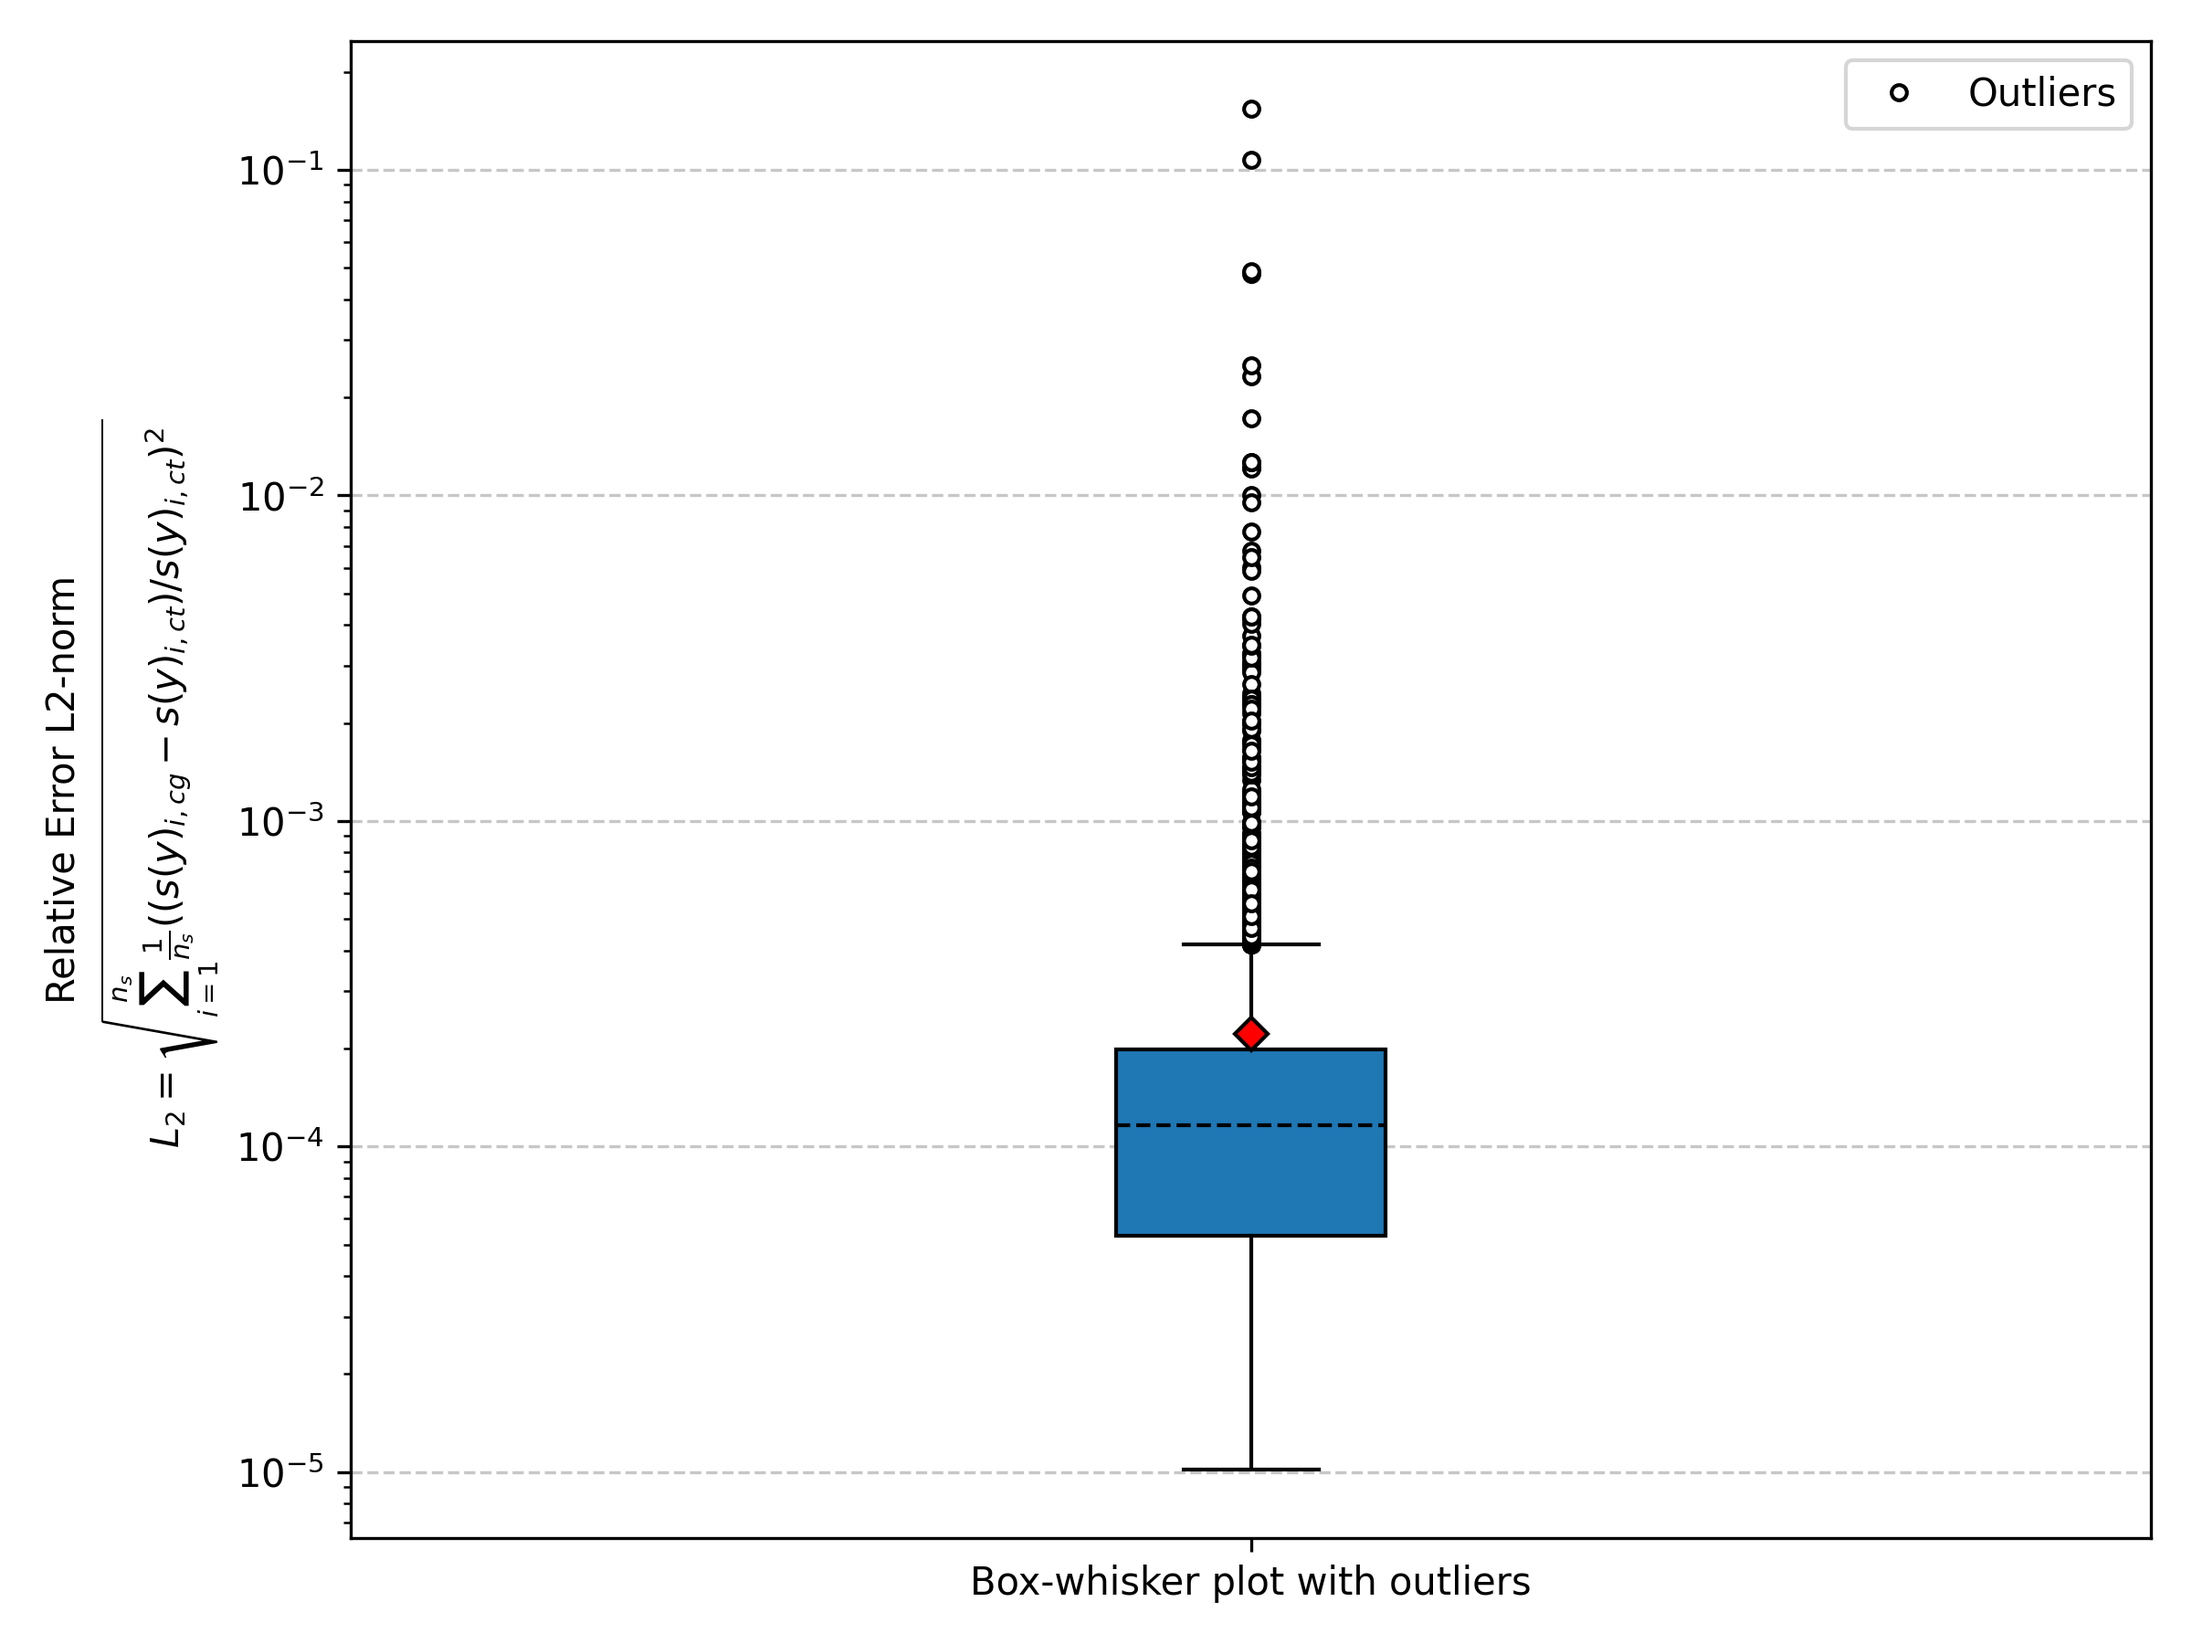
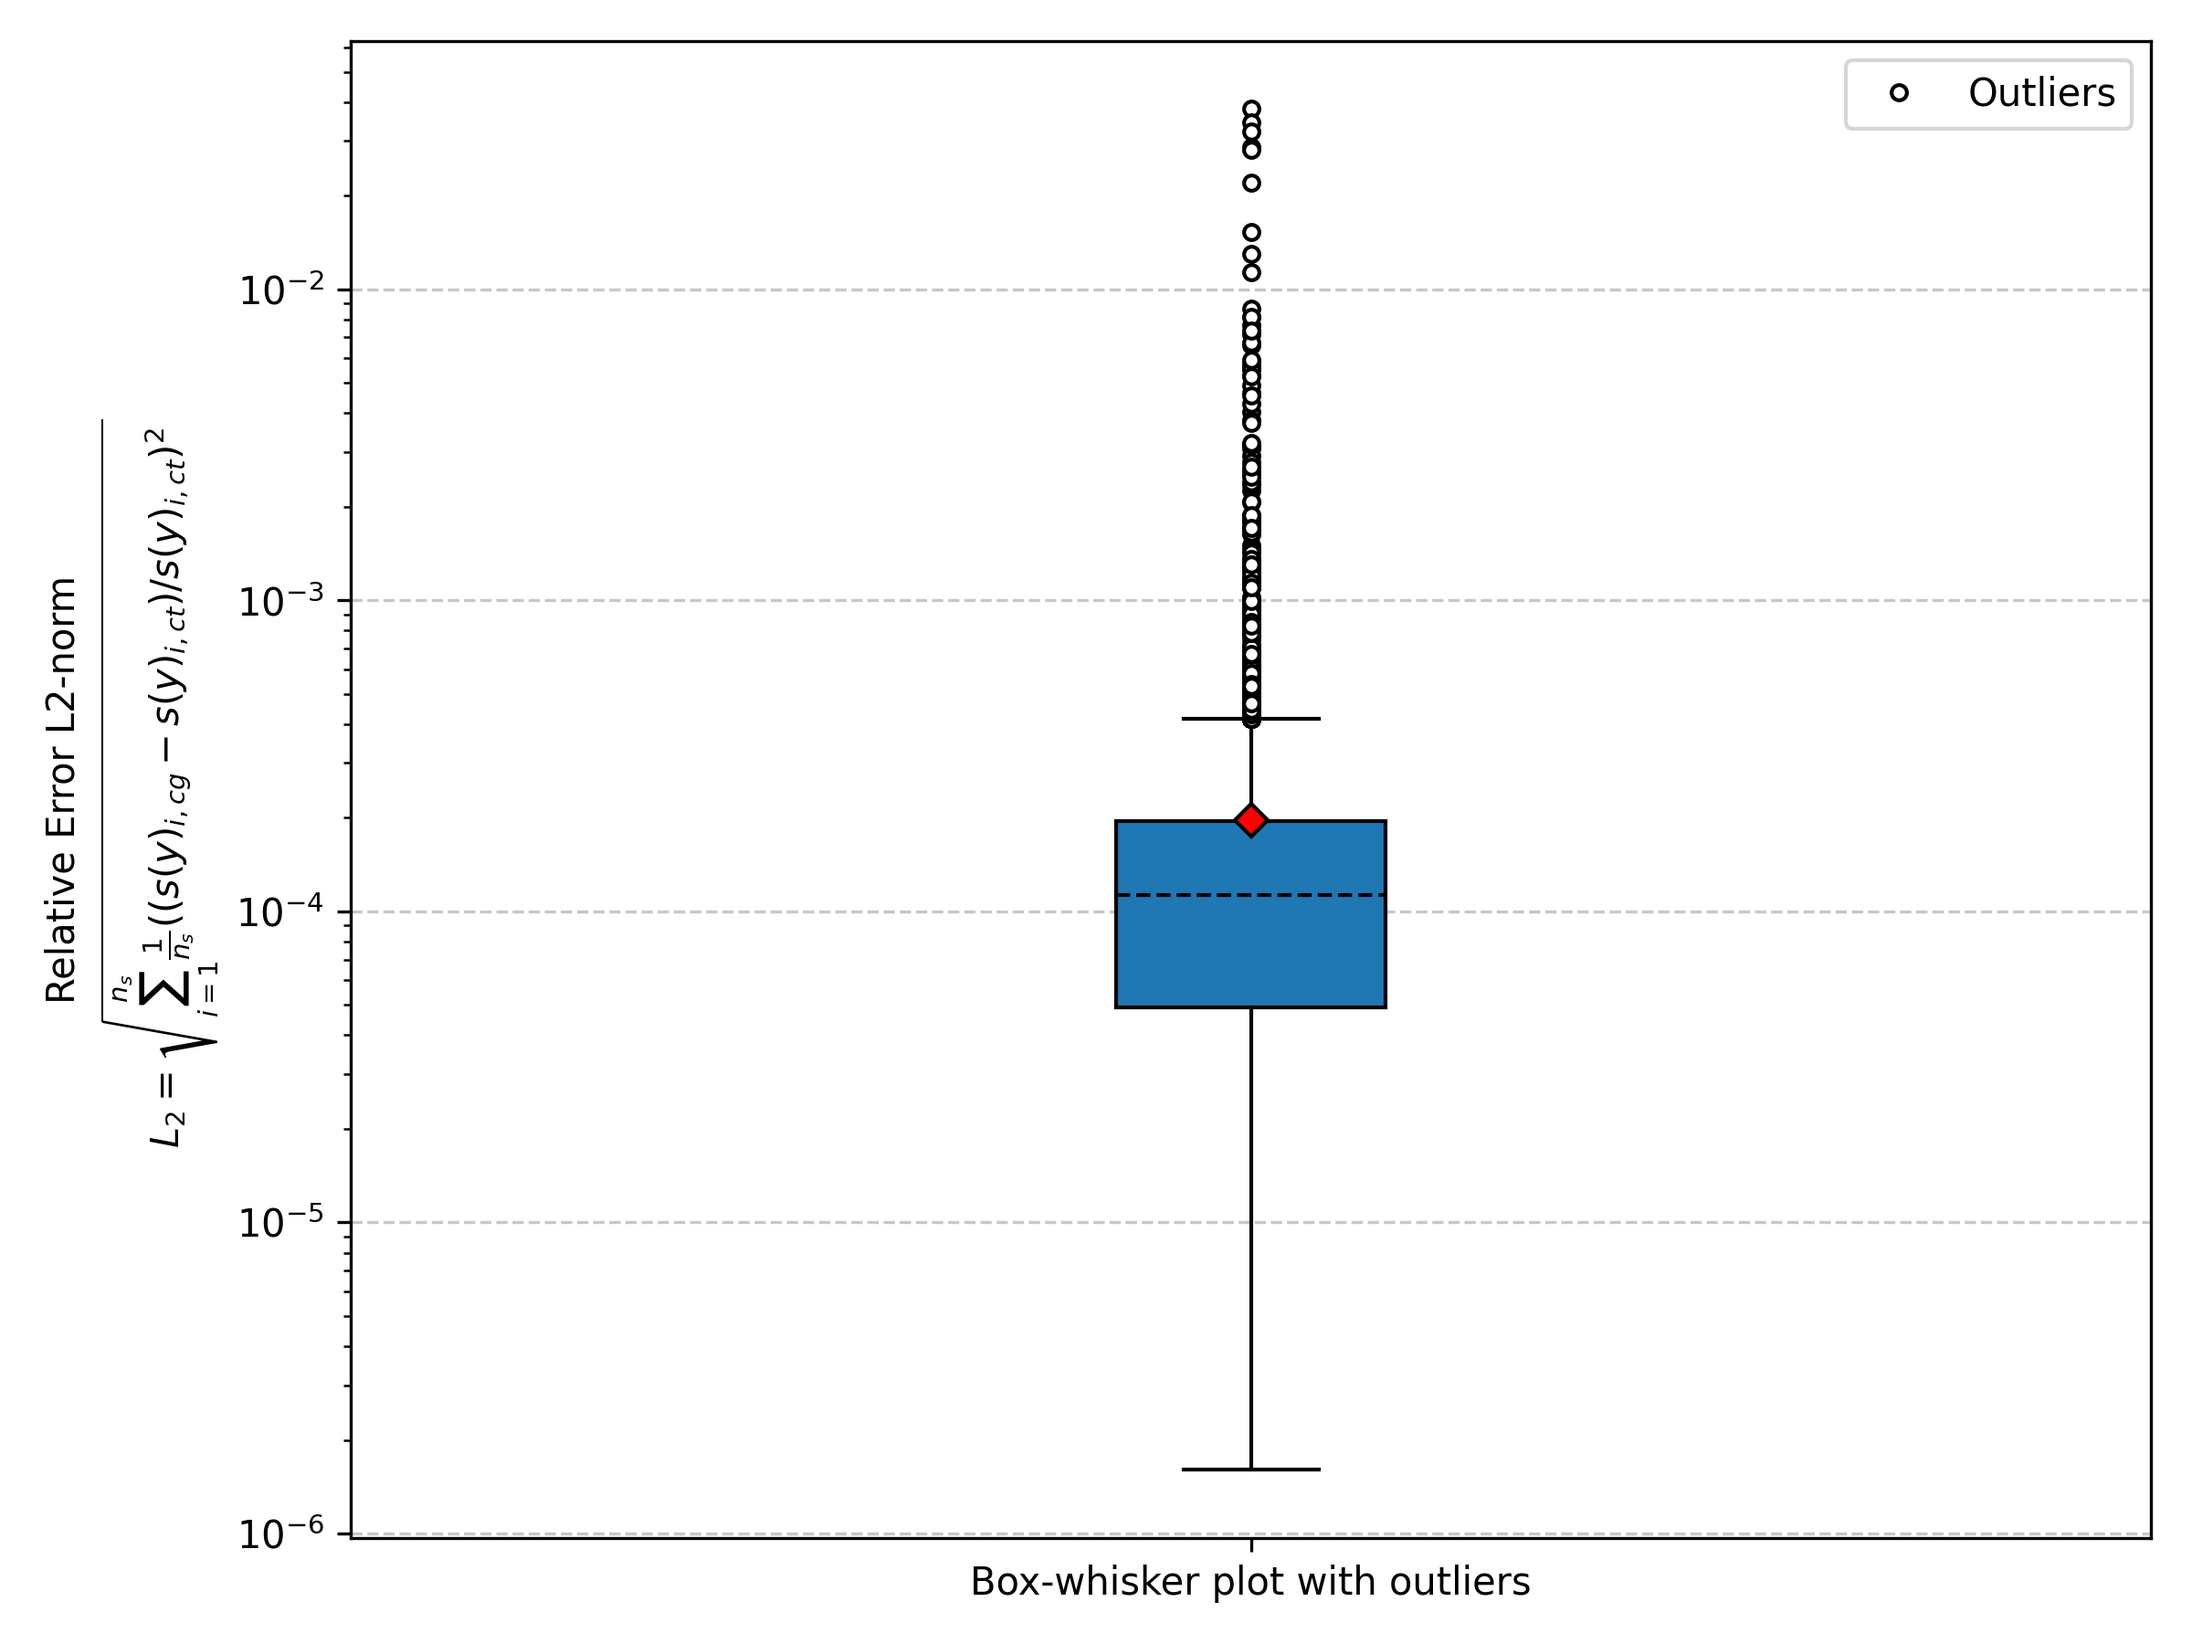
small fixes to tutorial

diff --git a/tutorial/chemgen_error_assessment/custom_test.py b/tutorial/chemgen_error_assessment/custom_test.py
@@ -143,7 +143,7 @@ def create_test(gas, chemical_mechanism, headers, test_file_name, configuration,
 
 {scalar_function} safe_jump({scalar_parameter} a, {scalar_parameter} b) {const_option}
 {{
-    if(std::abs(a) <= 1e-10 && std::abs(b))
+    if(std::abs(a) <= 1e-8 && std::abs(b))
     {{
         return 0;
     }}
@@ -161,7 +161,7 @@ void l2_norm({scalar_parameter} temperature, {species_parameter} result, {specie
     {scalar} l2_norm = {scalar_cast}(0.0);
     for (size_t i = 0; i < n_species; ++i) 
     {{
-        l2_norm += weight * ({scalar_cast}(1)/{scalar_cast}(n_species)) * pow_gen2(safe_divide(safe_jump(result[i], cantera_source[i]), cantera_source[i]));
+        l2_norm += ({scalar_cast}(1)/{scalar_cast}(n_species)) * pow_gen2(safe_divide(safe_jump(result[i], cantera_source[i]), cantera_source[i]));
     }}
     file<< ", " << std::sqrt(l2_norm);
     file<< std::endl;

diff --git a/bin/chemgen.py b/bin/chemgen.py
@@ -63,7 +63,7 @@ def main():
     destination_folder = Path(args.destination)/'src'
     n_points_test = args.n_points_test
     fit_gibbs_reaction  = True
-    if args.fit_gibbs_reaction == False
+    if args.fit_gibbs_reaction == False:
         fit_gibbs_reaction  = False
         print("Gibbs free energies will be fitted per species and then summation will be performed according to stoicheimetry.\n Warning, this has shown to cause some errors when compared to cantera.")
 
